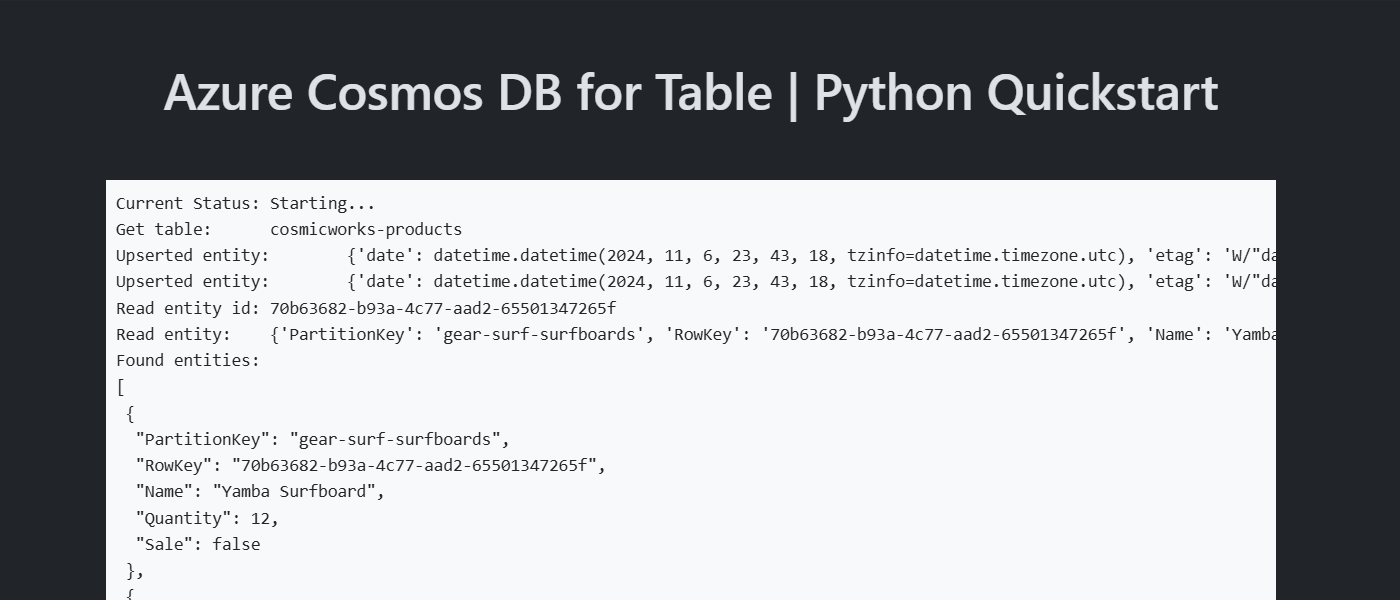
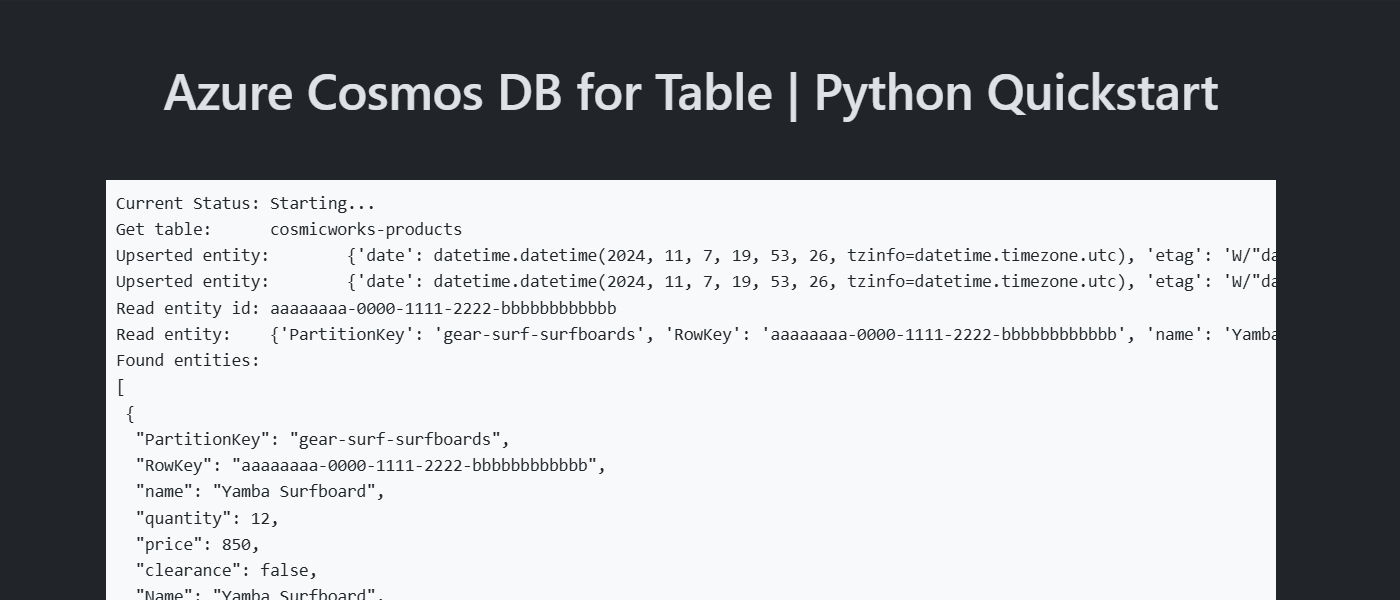
Update GUIDs

diff --git a/src/cosmos.py b/src/cosmos.py
@@ -37,7 +37,7 @@ def runDemo(writeOutput):
     writeOutput(f"Get table:\t{table.table_name}")
 
     new_entity = {
-        "RowKey": "70b63682-b93a-4c77-aad2-65501347265f",
+        "RowKey": "aaaaaaaa-0000-1111-2222-bbbbbbbbbbbb",
         "PartitionKey": "gear-surf-surfboards",
         "Name": "Yamba Surfboard",
         "Quantity": 12,
@@ -48,7 +48,7 @@ def runDemo(writeOutput):
     writeOutput(f"Upserted entity:\t{created_entity}")
 
     new_entity = {
-        "RowKey": "25a68543-b90c-439d-8332-7ef41e06a0e0",
+        "RowKey": "bbbbbbbb-1111-2222-3333-cccccccccccc",
         "PartitionKey": "gear-surf-surfboards",
         "Name": "Kiama Classic Surfboard",
         "Quantity": 4,
@@ -58,7 +58,7 @@ def runDemo(writeOutput):
     writeOutput(f"Upserted entity:\t{created_entity}")
 
     existing_entity = table.get_entity(
-        row_key="70b63682-b93a-4c77-aad2-65501347265f",
+        row_key="aaaaaaaa-0000-1111-2222-bbbbbbbbbbbb",
         partition_key="gear-surf-surfboards",
     )
 
